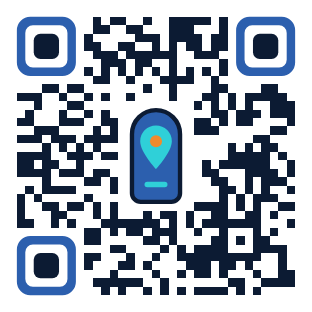
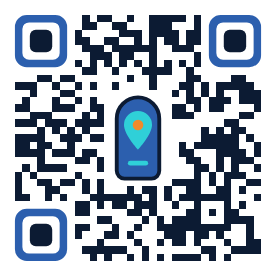
E-mailovy podpis: kompaktni verze (QR vedle kontaktu, mensi znacka)

diff --git a/static/podpis/martin-durek.html b/static/podpis/martin-durek.html
@@ -3,26 +3,20 @@
 <body style="margin:0;padding:32px 20px;background:#fff">
 <table cellpadding="0" cellspacing="0" border="0" style="font-family:Arial,Helvetica,sans-serif;color:#0c1b33;border-collapse:collapse">
 <tr>
-<td valign="top" width="130" style="width:130px;padding:0 18px 0 0"><a href="https://www.smartestguide.com/" style="text-decoration:none"><img src="https://www.smartestguide.com/static/podpis/znacka.png" width="112" height="112" alt="SMARTEST GUIDE" style="display:block;border:0;border-radius:14px"></a></td>
+<td valign="top" width="98" style="width:98px;padding:0 14px 0 0"><a href="https://www.smartestguide.com/" style="text-decoration:none"><img src="https://www.smartestguide.com/static/podpis/znacka.png?v=2" width="84" height="84" alt="SMARTEST GUIDE" style="display:block;border:0;border-radius:11px"></a></td>
 <td valign="top">
-<div style="font-size:19px;line-height:24px;font-weight:bold;color:#0c1b33">Martin Durek</div>
-<div style="padding:4px 0 8px 0"><span style="display:inline-block;background:#2fd0d8;color:#0c1b33;font-size:12px;line-height:16px;font-weight:bold;letter-spacing:.3px;padding:3px 11px;border-radius:9px 9px 9px 2px">Co-founder</span></div>
+<div style="font-size:16px;line-height:20px;font-weight:bold;color:#0c1b33">Martin Durek</div>
+<div style="padding:3px 0 5px 0"><span style="display:inline-block;background:#2fd0d8;color:#0c1b33;font-size:11px;line-height:14px;font-weight:bold;letter-spacing:.3px;padding:2px 9px;border-radius:8px 8px 8px 2px">Co-founder</span></div>
 <table cellpadding="0" cellspacing="0" border="0" style="border-collapse:collapse">
-<tr><td width="24" valign="middle" style="padding:2px 0"><img src="https://www.smartestguide.com/static/podpis/ikona_tel.png" width="16" height="16" alt="" style="display:block;border:0"></td><td valign="middle" style="padding:2px 0;font-size:13px;line-height:18px"><a href="tel:+420605997978" style="color:#2c5fae;text-decoration:none">+420 605 997 978</a></td></tr>
-<tr><td width="24" valign="middle" style="padding:2px 0"><img src="https://www.smartestguide.com/static/podpis/ikona_mail.png" width="16" height="16" alt="" style="display:block;border:0"></td><td valign="middle" style="padding:2px 0;font-size:13px;line-height:18px"><a href="mailto:martin.durek@smartestguide.com" style="color:#2c5fae;text-decoration:none">martin.durek@smartestguide.com</a></td></tr>
-<tr><td width="24" valign="middle" style="padding:2px 0"><img src="https://www.smartestguide.com/static/podpis/ikona_web.png" width="16" height="16" alt="" style="display:block;border:0"></td><td valign="middle" style="padding:2px 0;font-size:13px;line-height:18px"><a href="https://www.smartestguide.com/" style="color:#2c5fae;text-decoration:none">www.smartestguide.com</a></td></tr>
+<tr><td width="20" valign="middle" style="padding:1px 0"><img src="https://www.smartestguide.com/static/podpis/ikona_tel.png?v=2" width="13" height="13" alt="" style="display:block;border:0"></td><td valign="middle" style="padding:1px 0;font-size:12px;line-height:17px"><a href="tel:+420605997978" style="color:#2c5fae;text-decoration:none">+420 605 997 978</a></td></tr>
+<tr><td width="20" valign="middle" style="padding:1px 0"><img src="https://www.smartestguide.com/static/podpis/ikona_mail.png?v=2" width="13" height="13" alt="" style="display:block;border:0"></td><td valign="middle" style="padding:1px 0;font-size:12px;line-height:17px"><a href="mailto:martin.durek@smartestguide.com" style="color:#2c5fae;text-decoration:none">martin.durek@smartestguide.com</a></td></tr>
+<tr><td width="20" valign="middle" style="padding:1px 0"><img src="https://www.smartestguide.com/static/podpis/ikona_web.png?v=2" width="13" height="13" alt="" style="display:block;border:0"></td><td valign="middle" style="padding:1px 0;font-size:12px;line-height:17px"><a href="https://www.smartestguide.com/" style="color:#2c5fae;text-decoration:none">www.smartestguide.com</a></td></tr>
 </table>
 </td>
+<td valign="top" align="center" style="padding:0 0 0 12px;font-size:10px;line-height:13px;font-weight:bold;color:#0c1b33"><a href="https://www.smartestguide.com/"><img src="https://www.smartestguide.com/static/podpis/qr_web.png?v=2" width="92" height="92" alt="QR web" style="display:block;border:0"></a>Web a demo</td>
+<td valign="top" align="center" style="padding:0 0 0 12px;font-size:10px;line-height:13px;font-weight:bold;color:#0c1b33"><img src="https://www.smartestguide.com/static/podpis/qr_kontakt_durek.png?v=2" width="92" height="92" alt="QR kontakt" style="display:block;border:0">Uložit kontakt</td>
 </tr>
-<tr><td colspan="2" style="padding:12px 0 10px 0"><img src="https://www.smartestguide.com/static/podpis/linka.png" width="460" height="3" alt="" style="display:block;border:0"></td></tr>
-<tr><td colspan="2">
-<table cellpadding="0" cellspacing="0" border="0" style="border-collapse:collapse"><tr>
-<td valign="middle"><a href="https://www.smartestguide.com/"><img src="https://www.smartestguide.com/static/podpis/qr_web.png" width="104" height="104" alt="QR web" style="display:block;border:0"></a></td>
-<td valign="middle" style="padding:0 18px 0 8px;font-size:12px;line-height:16px;font-weight:bold;color:#0c1b33">Web<br>a demo</td>
-<td valign="middle"><img src="https://www.smartestguide.com/static/podpis/qr_kontakt_durek.png" width="104" height="104" alt="QR kontakt" style="display:block;border:0"></td>
-<td valign="middle" style="padding:0 18px 0 8px;font-size:12px;line-height:16px;font-weight:bold;color:#0c1b33">Uložit<br>kontakt</td>
-<td valign="middle" style="font-size:10px;line-height:15px;font-weight:bold;letter-spacing:1px;color:#2c5fae">AI CONCIERGE<br>PRO HOTELY<br><span style="color:#f08a2c">24/7 · 100+ JAZYKŮ</span></td>
-</tr></table>
-</td></tr>
+<tr><td colspan="4" style="padding:8px 0 5px 0"><img src="https://www.smartestguide.com/static/podpis/linka.png?v=2" width="536" height="2" alt="" style="display:block;border:0"></td></tr>
+<tr><td colspan="4" style="font-size:9px;line-height:12px;font-weight:bold;letter-spacing:1px;color:#2c5fae">AI CONCIERGE PRO HOTELY <span style="color:#f08a2c">· 24/7 · 100+ JAZYKŮ</span></td></tr>
 </table>
 </body></html>
